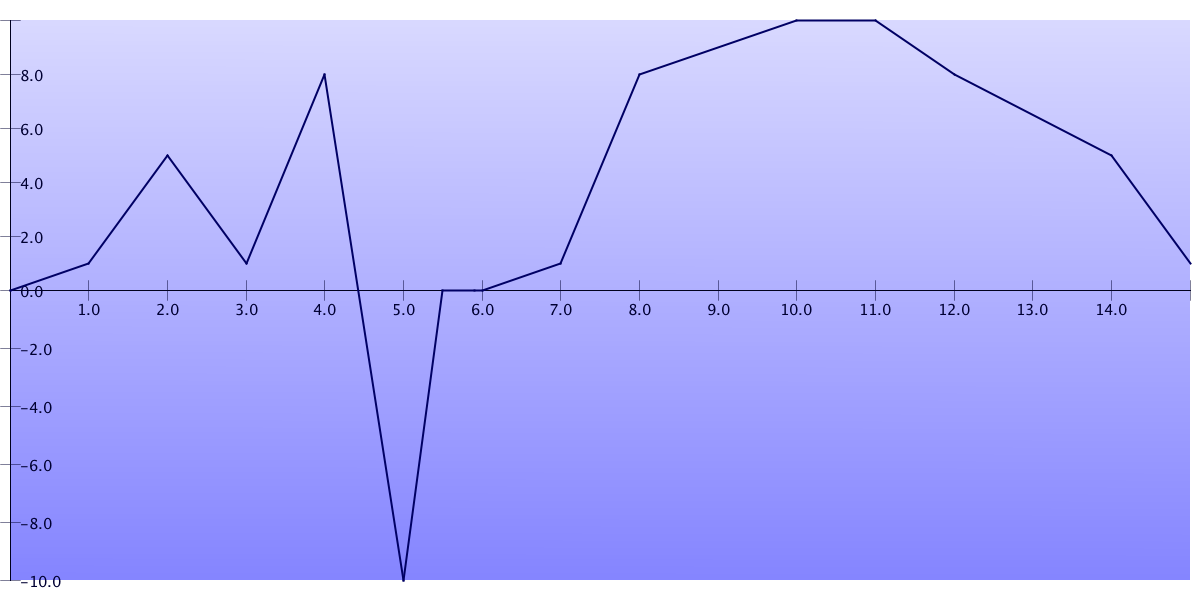
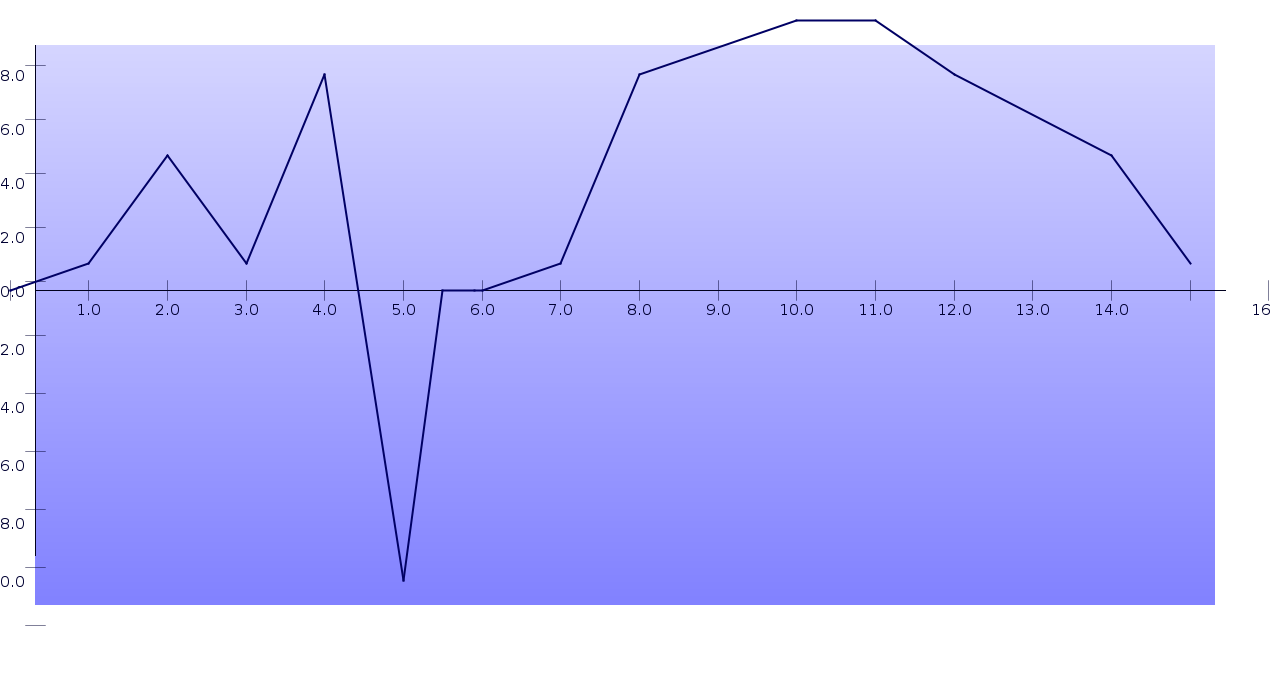
Work in progress.

diff --git a/src/org/berthold/diagramDrawer/Chart.java b/src/org/berthold/diagramDrawer/Chart.java
@@ -62,14 +62,20 @@ public class Chart {
 	 */
 	public void draw() {
 		// Create an in memory Image
-		BufferedImage img = new BufferedImage(width_px, height_px, BufferedImage.TYPE_INT_ARGB);
+		int xOffset_px=settings.getPadX_px()+settings.getMarkerLength()+settings.getTextSizeAxixDesignators();
+		int widthOfChartArea_px=width_px+2*xOffset_px;
+		
+		int yOffset_px=settings.getPadY_px()+settings.getMarkerLength()+settings.getTextSizeAxixDesignators();
+		int heightOfChartArea_px=height_px+2*yOffset_px;
+		
+		BufferedImage img = new BufferedImage(widthOfChartArea_px, heightOfChartArea_px, BufferedImage.TYPE_INT_ARGB);
 
 		// Grab the graphics object off the image
 		Graphics2D graphics = img.createGraphics();
 		graphics = assignRendieringHints(graphics);
 
 		// Draw
-		graphics = drawCartesian(graphics, dataSet);
+		graphics = drawCartesian(graphics, dataSet,xOffset_px,yOffset_px);
 		graphics = drawLineDiagram(graphics, dataSet);
 
 		// Save to file.
@@ -90,7 +96,7 @@ public class Chart {
 	 * @param dataSet  The data set
 	 * @return The {@Graphics2D}- object containing the coordinate system.
 	 */
-	private Graphics2D drawCartesian(Graphics2D graphics, DataSet dataSet) {
+	private Graphics2D drawCartesian(Graphics2D graphics, DataSet dataSet,int xOffset_px,int yOffset_px) {
 
 		graphics.setBackground(Color.WHITE);
 
@@ -127,22 +133,22 @@ public class Chart {
 		GradientPaint gradient;
 
 		if (settings.getFillDirection() == settings.TOP_DOWN)
-			gradient = new GradientPaint((float) 1, 0, c1, (float) (0), height_px, c2);
+			gradient = new GradientPaint((float) 0, 0, c1, (float) (0), height_px, c2);
 		else
-			gradient = new GradientPaint((float) 1, 0, c1, (float) (0), width_px, c2);
+			gradient = new GradientPaint((float) 0, 0, c1, (float) (0), width_px, c2);
 
 		graphics.setPaint(gradient);
 
-		graphics.fillRect(settings.getPadX_px(), settings.getPadY_px(), width_px - settings.getPadX_px() * 2,
+		graphics.fillRect(xOffset_px,yOffset_px, width_px - settings.getPadX_px() * 2,
 				height_px - settings.getPadY_px() * 2);
 
 		// Draw x- axis
 		graphics.setColor(settings.getAxisColor());
-		graphics.drawLine(settings.getPadX_px(), y0_px, width_px - settings.getPadX_px(), y0_px);
+		graphics.drawLine(xOffset_px, y0_px, width_px+xOffset_px-settings.getPadX_px(), y0_px);
 
 		// Draw y- axis
-		graphics.drawLine(settings.getPadX_px(), settings.getPadY_px(), settings.getPadX_px(),
-				height_px - settings.getPadY_px());
+		graphics.drawLine(xOffset_px, yOffset_px, xOffset_px,
+				height_px - yOffset_px);
 
 		// Draw markers for x- axis
 		graphics.setColor(settings.getAxisMarkersColor());
@@ -151,7 +157,7 @@ public class Chart {
 
 		graphics.setFont(new Font(settings.getFontName(), Font.PLAIN, settings.getTextSizeAxixDesignators()));
 
-		for (double x = 0; x < width_px - 2 * settings.getPadX_px(); x = x + settings.getMainX()) {
+		for (double x = 0; x < width_px ; x = x + settings.getMainX()) {
 			int xt = (int) getXT(x);
 			graphics.drawLine(xt, y0_px - 10, xt, y0_px + 10);
 
@@ -162,14 +168,22 @@ public class Chart {
 			}
 		}
 
+		//
+		//
+		// Check from here..............................
+		//
+		
+		
+		
+		
 		// Draw markers for y-axis
 		for (double y = yMin; y <= yMax; y = y + settings.getMainY()) {
 			int yt = (int) getYT(y);
-			graphics.drawLine(settings.getPadX_px() - 10, (int) yt, settings.getPadX_px() + 10, (int) yt);
+			graphics.drawLine(xOffset_px - 10, (int) yt+yOffset_px, xOffset_px + 10, (int) yt+yOffset_px);
 
 			if (y != yMax) {
 				int yc=getVertCenterCoordinate(settings.getTextSizeAxixDesignators(),yt);
-				graphics.drawString(y + "", settings.getPadX_px()+settings.getMarkerLength(), yc);
+				graphics.drawString(y + "", xOffset_px-settings.getMarkerLength()-getWidth(y+"", graphics), yc);
 			}
 		}
 		return graphics;
